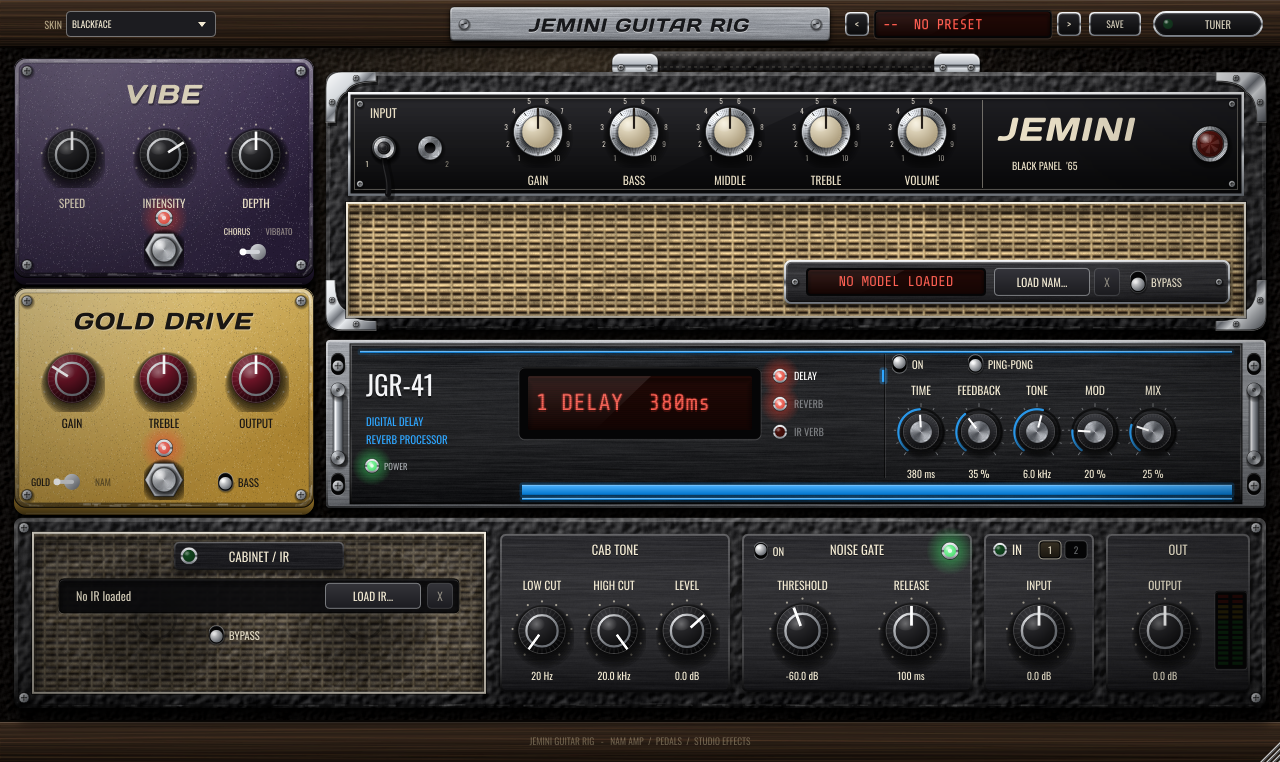
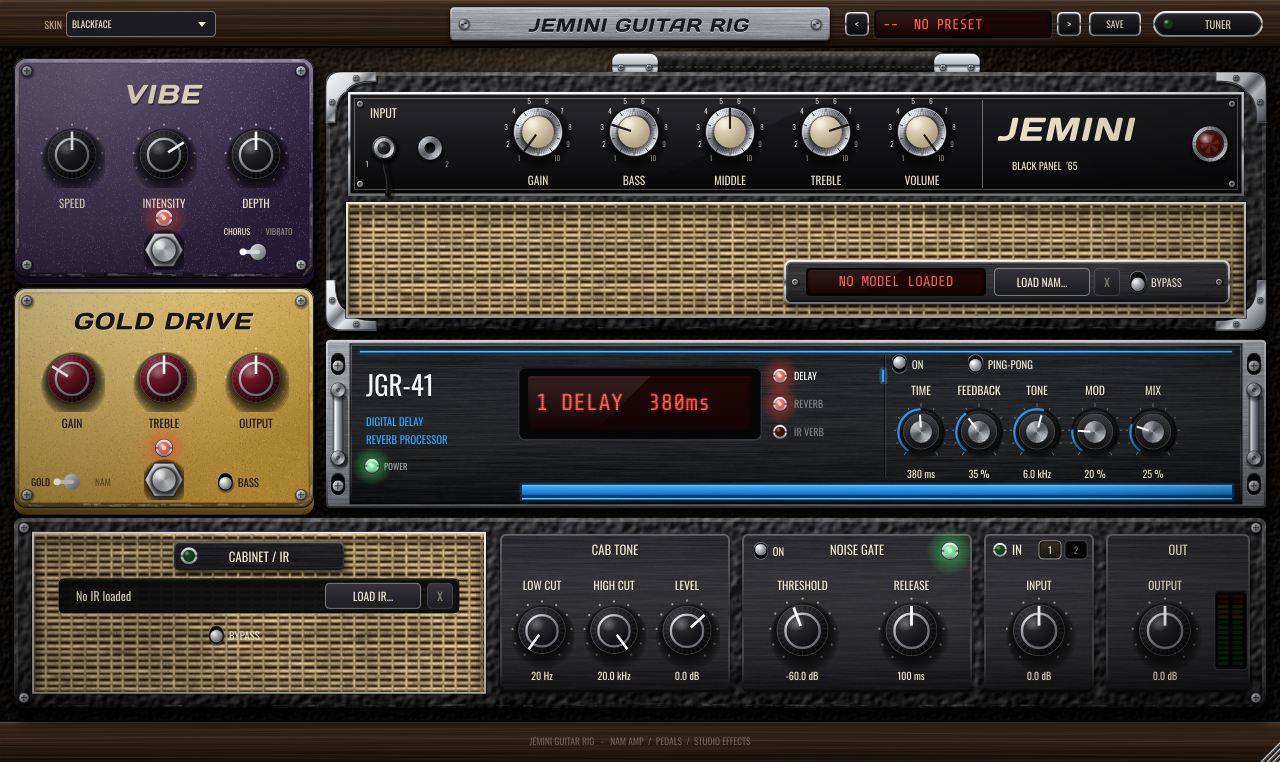
Cabinet grille: same cloth as the amp head
The cab cloth was drawn semi-transparent (drawImage inherited the
translucent colour left by the screws), so it looked dark and grey.
Reset opacity before drawing it, build it at the exact grille size so the
weave matches the head, and soften the speaker shadows behind it.

Claude-Session: https://claude.ai/code/session_01Xrv8MNUsFMci2LD7dNoEYZ

Changed region(s): [[0.0, 0.6942, 0.375, 0.9055]]

diff --git a/Source/UI/RigPanel.cpp b/Source/UI/RigPanel.cpp
@@ -867,7 +867,7 @@ void RigPanel::buildTextures()
     tolex       = sk.covering == Skin::Covering::tweed ? realism::makeTweed (256, sk.covering1, sk.covering2, 7)
                                                        : realism::makeTolex (256, sk.covering1, 7, 1.9f, true);
     ampGrille   = makeWheatGrille (896 * 2, 112 * 2, 2.0f, 11, sk);
-    cabGrille   = makeWheatGrille (500 * 2, 158 * 2, 2.0f, 13, sk);
+    cabGrille   = makeWheatGrille (450 * 2, 158 * 2, 2.0f, 13, sk);   // exact size of cabGrilleArea, same weave scale as the head
     brushedRack = realism::makeBrushed (512, 256, sk.rackFace, 5.0f, 21);
     brushedDark = realism::makeBrushed (512, 256, sk.subPanel, 4.0f, 23);
     brushedAlu  = realism::makeBrushed (256, 256, juce::Colour (0xff8d9198), 9.0f, 25);
@@ -2039,18 +2039,19 @@ void RigPanel::drawBottomStrip (juce::Graphics& g) const
 
     // Cabinet grille (recessed, with piping)
     const auto grille = cabGrilleArea.toFloat();
+    g.setOpacity (1.0f);   // drawImage uses the current colour's alpha; the screws leave it translucent
     g.drawImage (cabGrille, grille, juce::RectanglePlacement::stretchToFit);
 
     // Two speakers faintly visible through the cloth (2x12)
     for (float cx : { grille.getX() + grille.getWidth() * 0.27f, grille.getX() + grille.getWidth() * 0.73f })
     {
         const auto c = juce::Point<float> (cx, grille.getCentreY() + 6.0f);
-        juce::ColourGradient cone (juce::Colours::black.withAlpha (0.45f), c,
+        juce::ColourGradient cone (juce::Colours::black.withAlpha (0.16f), c,
                                    juce::Colours::black.withAlpha (0.0f), c.translated (0.0f, 76.0f), true);
-        cone.addColour (0.8, juce::Colours::black.withAlpha (0.2f));
+        cone.addColour (0.8, juce::Colours::black.withAlpha (0.07f));
         g.setGradientFill (cone);
         g.fillEllipse (juce::Rectangle<float> (152.0f, 152.0f).withCentre (c));
-        g.setColour (juce::Colours::black.withAlpha (0.25f));
+        g.setColour (juce::Colours::black.withAlpha (0.08f));
         g.drawEllipse (juce::Rectangle<float> (40.0f, 40.0f).withCentre (c), 3.0f);
         g.setColour (juce::Colours::white.withAlpha (0.04f));
         g.drawEllipse (juce::Rectangle<float> (150.0f, 150.0f).withCentre (c.translated (-1.0f, -1.5f)), 2.0f);
